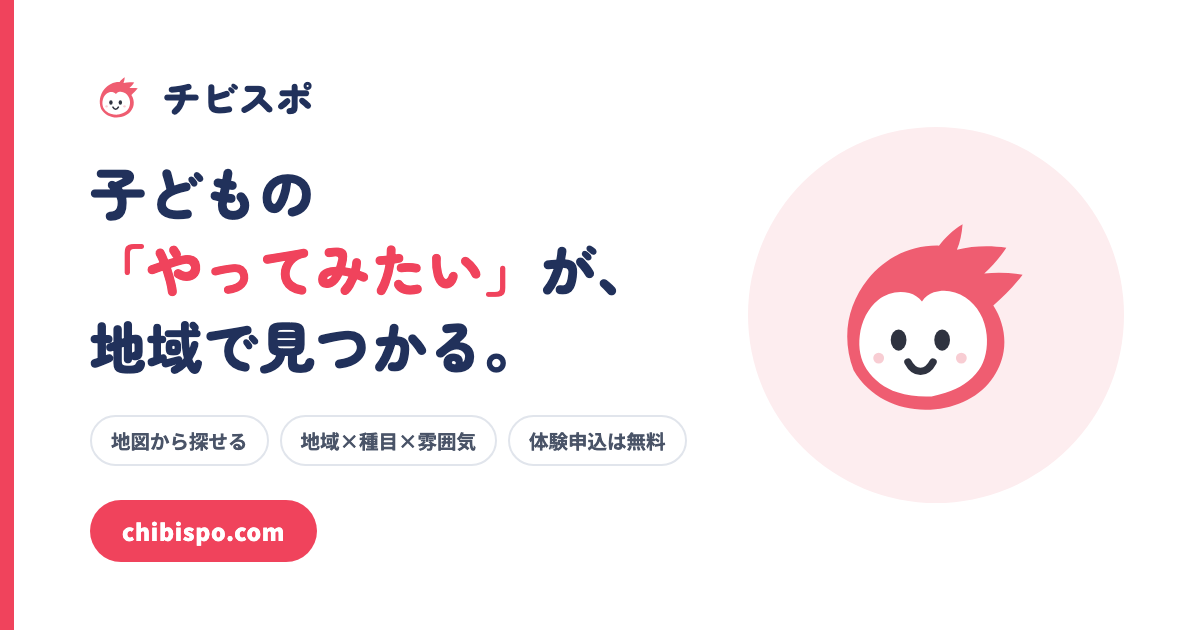
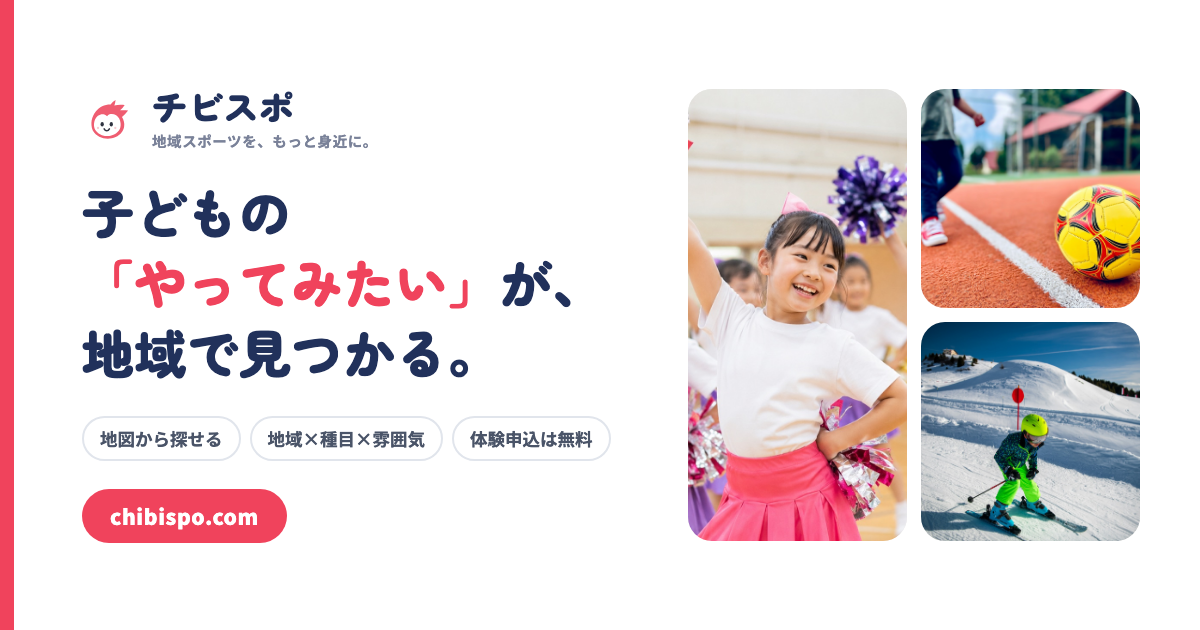
OGP画像に運動している子どもの写真を入れる
マスコットとコピーだけでは「スポーツ」が伝わらなかった。
サイトのhero等で使っている実写3枚（チア・サッカー・スキー）を
入れて、屋内/ボール/屋外を1枚でカバーする。
ロゴの下に「地域スポーツを、もっと身近に。」を添える。
既に公開した v=3 がキャッシュされているので v=4 に上げる。

diff --git a/faq.html b/faq.html
@@ -20,13 +20,13 @@
 <meta property="og:title" content="よくある質問｜チビスポ">
 <meta property="og:description" content="チビスポのよくある質問。保護者の方（検索・体験申込・お気に入り・コメント）、クラブ運営者の方（掲載・料金プラン・写真・解約）向けにまとめています。">
 <meta property="og:url" content="https://chibispo.com/faq.html">
-<meta property="og:image" content="https://chibispo.com/assets/ogp.png?v=3">
+<meta property="og:image" content="https://chibispo.com/assets/ogp.png?v=4">
 <meta property="og:image:width" content="1200">
 <meta property="og:image:height" content="630">
 <meta name="twitter:card" content="summary_large_image">
 <meta name="twitter:title" content="よくある質問｜チビスポ">
 <meta name="twitter:description" content="チビスポのよくある質問。保護者の方（検索・体験申込・お気に入り・コメント）、クラブ運営者の方（掲載・料金プラン・写真・解約）向けにまとめています。">
-<meta name="twitter:image" content="https://chibispo.com/assets/ogp.png?v=3">
+<meta name="twitter:image" content="https://chibispo.com/assets/ogp.png?v=4">
 <link rel="preconnect" href="https://fonts.googleapis.com">
 <link rel="preconnect" href="https://fonts.gstatic.com" crossorigin>
 <link href="https://fonts.googleapis.com/css2?family=Zen+Maru+Gothic:wght@700;900&family=Noto+Sans+JP:wght@400;500;700;800;900&family=Pacifico&display=swap" rel="stylesheet">

diff --git a/index.html b/index.html
@@ -20,13 +20,13 @@
 <meta property="og:title" content="チビスポ｜子どものスポーツ・習い事クラブが見つかるメディア">
 <meta property="og:description" content="地域×種目×雰囲気で、お子さまに合うスポーツ・習い事クラブが見つかる。地図から探せて、体験申込もそのまま。">
 <meta property="og:url" content="https://chibispo.com/">
-<meta property="og:image" content="https://chibispo.com/assets/ogp.png?v=3">
+<meta property="og:image" content="https://chibispo.com/assets/ogp.png?v=4">
 <meta property="og:image:width" content="1200">
 <meta property="og:image:height" content="630">
 <meta name="twitter:card" content="summary_large_image">
 <meta name="twitter:title" content="チビスポ｜子どものスポーツ・習い事クラブが見つかるメディア">
 <meta name="twitter:description" content="地域×種目×雰囲気で、お子さまに合うスポーツ・習い事クラブが見つかる。地図から探せて、体験申込もそのまま。">
-<meta name="twitter:image" content="https://chibispo.com/assets/ogp.png?v=3">
+<meta name="twitter:image" content="https://chibispo.com/assets/ogp.png?v=4">
 <link rel="preconnect" href="https://fonts.googleapis.com">
   <link rel="preconnect" href="https://fonts.gstatic.com" crossorigin="anonymous">
   <link href="https://fonts.googleapis.com/css2?family=Zen+Maru+Gothic:wght@700;900&amp;family=Noto+Sans+JP:wght@400;500;700;900&amp;family=Pacifico&amp;display=swap" rel="stylesheet">

diff --git a/magazine.html b/magazine.html
@@ -20,13 +20,13 @@
 <meta property="og:title" content="お役立ちマガジン｜チビスポ">
 <meta property="og:description" content="子どものスポーツ・習い事選びに役立つ情報を、理学療法士の監修でお届け。年齢別の運動、クラブの選び方、けが予防、声かけのコツなど、研究と現場の両面から解説します。">
 <meta property="og:url" content="https://chibispo.com/magazine.html">
-<meta property="og:image" content="https://chibispo.com/assets/ogp.png?v=3">
+<meta property="og:image" content="https://chibispo.com/assets/ogp.png?v=4">
 <meta property="og:image:width" content="1200">
 <meta property="og:image:height" content="630">
 <meta name="twitter:card" content="summary_large_image">
 <meta name="twitter:title" content="お役立ちマガジン｜チビスポ">
 <meta name="twitter:description" content="子どものスポーツ・習い事選びに役立つ情報を、理学療法士の監修でお届け。年齢別の運動、クラブの選び方、けが予防、声かけのコツなど、研究と現場の両面から解説します。">
-<meta name="twitter:image" content="https://chibispo.com/assets/ogp.png?v=3">
+<meta name="twitter:image" content="https://chibispo.com/assets/ogp.png?v=4">
 <meta property="og:type" content="website">
 <meta property="og:site_name" content="チビスポ">
 <meta property="og:title" content="お役立ちマガジン｜チビスポ">

diff --git a/account-delete.html b/account-delete.html
@@ -19,13 +19,13 @@
 <meta property="og:title" content="アカウント削除の申請｜チビスポ">
 <meta property="og:description" content="チビスポのアカウント削除方法と、削除されるデータについてのご案内です。">
 <meta property="og:url" content="https://chibispo.com/account-delete.html">
-<meta property="og:image" content="https://chibispo.com/assets/ogp.png?v=3">
+<meta property="og:image" content="https://chibispo.com/assets/ogp.png?v=4">
 <meta property="og:image:width" content="1200">
 <meta property="og:image:height" content="630">
 <meta name="twitter:card" content="summary_large_image">
 <meta name="twitter:title" content="アカウント削除の申請｜チビスポ">
 <meta name="twitter:description" content="チビスポのアカウント削除方法と、削除されるデータについてのご案内です。">
-<meta name="twitter:image" content="https://chibispo.com/assets/ogp.png?v=3">
+<meta name="twitter:image" content="https://chibispo.com/assets/ogp.png?v=4">
 <link rel="preconnect" href="https://fonts.googleapis.com">
 <link rel="preconnect" href="https://fonts.gstatic.com" crossorigin>
 <link href="https://fonts.googleapis.com/css2?family=Zen+Maru+Gothic:wght@700;900&family=Noto+Sans+JP:wght@400;500;700;800;900&family=Pacifico&display=swap" rel="stylesheet">

diff --git a/pr-sample-design.html b/pr-sample-design.html
@@ -18,12 +18,12 @@
 <meta property="og:site_name" content="チビスポ">
 <meta property="og:title" content="デザインボックス｜チビスポ 取材記事（サンプル）">
 <meta property="og:url" content="https://chibispo.com/pr-sample-design.html">
-<meta property="og:image" content="https://chibispo.com/assets/ogp.png?v=3">
+<meta property="og:image" content="https://chibispo.com/assets/ogp.png?v=4">
 <meta property="og:image:width" content="1200">
 <meta property="og:image:height" content="630">
 <meta name="twitter:card" content="summary_large_image">
 <meta name="twitter:title" content="デザインボックス｜チビスポ 取材記事（サンプル）">
-<meta name="twitter:image" content="https://chibispo.com/assets/ogp.png?v=3">
+<meta name="twitter:image" content="https://chibispo.com/assets/ogp.png?v=4">
 <link rel="preconnect" href="https://fonts.googleapis.com">
 <link rel="preconnect" href="https://fonts.gstatic.com" crossorigin>
 <link href="https://fonts.googleapis.com/css2?family=Zen+Maru+Gothic:wght@700;900&family=Noto+Sans+JP:wght@400;500;700;800;900&family=Pacifico&display=swap" rel="stylesheet">

diff --git a/pr-sample-sports.html b/pr-sample-sports.html
@@ -18,12 +18,12 @@
 <meta property="og:site_name" content="チビスポ">
 <meta property="og:title" content="ミナトスポーツ｜チビスポ 取材記事（サンプル）">
 <meta property="og:url" content="https://chibispo.com/pr-sample-sports.html">
-<meta property="og:image" content="https://chibispo.com/assets/ogp.png?v=3">
+<meta property="og:image" content="https://chibispo.com/assets/ogp.png?v=4">
 <meta property="og:image:width" content="1200">
 <meta property="og:image:height" content="630">
 <meta name="twitter:card" content="summary_large_image">
 <meta name="twitter:title" content="ミナトスポーツ｜チビスポ 取材記事（サンプル）">
-<meta name="twitter:image" content="https://chibispo.com/assets/ogp.png?v=3">
+<meta name="twitter:image" content="https://chibispo.com/assets/ogp.png?v=4">
 <link rel="preconnect" href="https://fonts.googleapis.com">
 <link rel="preconnect" href="https://fonts.gstatic.com" crossorigin>
 <link href="https://fonts.googleapis.com/css2?family=Zen+Maru+Gothic:wght@700;900&family=Noto+Sans+JP:wght@400;500;700;800;900&family=Pacifico&display=swap" rel="stylesheet">

diff --git a/pr-sample-cafe.html b/pr-sample-cafe.html
@@ -18,12 +18,12 @@
 <meta property="og:site_name" content="チビスポ">
 <meta property="og:title" content="ヘルシーカフェ｜チビスポ 取材記事（サンプル）">
 <meta property="og:url" content="https://chibispo.com/pr-sample-cafe.html">
-<meta property="og:image" content="https://chibispo.com/assets/ogp.png?v=3">
+<meta property="og:image" content="https://chibispo.com/assets/ogp.png?v=4">
 <meta property="og:image:width" content="1200">
 <meta property="og:image:height" content="630">
 <meta name="twitter:card" content="summary_large_image">
 <meta name="twitter:title" content="ヘルシーカフェ｜チビスポ 取材記事（サンプル）">
-<meta name="twitter:image" content="https://chibispo.com/assets/ogp.png?v=3">
+<meta name="twitter:image" content="https://chibispo.com/assets/ogp.png?v=4">
 <link rel="preconnect" href="https://fonts.googleapis.com">
 <link rel="preconnect" href="https://fonts.gstatic.com" crossorigin>
 <link href="https://fonts.googleapis.com/css2?family=Zen+Maru+Gothic:wght@700;900&family=Noto+Sans+JP:wght@400;500;700;800;900&family=Pacifico&display=swap" rel="stylesheet">

diff --git a/pr-sample.html b/pr-sample.html
@@ -18,12 +18,12 @@
 <meta property="og:site_name" content="チビスポ">
 <meta property="og:title" content="さくら整骨院｜チビスポ 取材記事（サンプル）">
 <meta property="og:url" content="https://chibispo.com/pr-sample.html">
-<meta property="og:image" content="https://chibispo.com/assets/ogp.png?v=3">
+<meta property="og:image" content="https://chibispo.com/assets/ogp.png?v=4">
 <meta property="og:image:width" content="1200">
 <meta property="og:image:height" content="630">
 <meta name="twitter:card" content="summary_large_image">
 <meta name="twitter:title" content="さくら整骨院｜チビスポ 取材記事（サンプル）">
-<meta name="twitter:image" content="https://chibispo.com/assets/ogp.png?v=3">
+<meta name="twitter:image" content="https://chibispo.com/assets/ogp.png?v=4">
 <link rel="preconnect" href="https://fonts.googleapis.com">
 <link rel="preconnect" href="https://fonts.gstatic.com" crossorigin>
 <link href="https://fonts.googleapis.com/css2?family=Zen+Maru+Gothic:wght@700;900&family=Noto+Sans+JP:wght@400;500;700;800;900&family=Pacifico&display=swap" rel="stylesheet">

diff --git a/legal.html b/legal.html
@@ -18,12 +18,12 @@
 <meta property="og:site_name" content="チビスポ">
 <meta property="og:title" content="プライバシーポリシー・利用規約｜チビスポ">
 <meta property="og:url" content="https://chibispo.com/legal.html">
-<meta property="og:image" content="https://chibispo.com/assets/ogp.png?v=3">
+<meta property="og:image" content="https://chibispo.com/assets/ogp.png?v=4">
 <meta property="og:image:width" content="1200">
 <meta property="og:image:height" content="630">
 <meta name="twitter:card" content="summary_large_image">
 <meta name="twitter:title" content="プライバシーポリシー・利用規約｜チビスポ">
-<meta name="twitter:image" content="https://chibispo.com/assets/ogp.png?v=3">
+<meta name="twitter:image" content="https://chibispo.com/assets/ogp.png?v=4">
 <link rel="preconnect" href="https://fonts.googleapis.com">
 <link rel="preconnect" href="https://fonts.gstatic.com" crossorigin>
 <link href="https://fonts.googleapis.com/css2?family=Zen+Maru+Gothic:wght@700;900&family=Noto+Sans+JP:wght@400;500;700;800;900&family=Pacifico&display=swap" rel="stylesheet">

diff --git a/category-outdoor.html b/category-outdoor.html
@@ -18,12 +18,12 @@
 <meta property="og:site_name" content="チビスポ">
 <meta property="og:title" content="自然・アウトドアスポーツ｜チビスポ">
 <meta property="og:url" content="https://chibispo.com/category-outdoor.html">
-<meta property="og:image" content="https://chibispo.com/assets/ogp.png?v=3">
+<meta property="og:image" content="https://chibispo.com/assets/ogp.png?v=4">
 <meta property="og:image:width" content="1200">
 <meta property="og:image:height" content="630">
 <meta name="twitter:card" content="summary_large_image">
 <meta name="twitter:title" content="自然・アウトドアスポーツ｜チビスポ">
-<meta name="twitter:image" content="https://chibispo.com/assets/ogp.png?v=3">
+<meta name="twitter:image" content="https://chibispo.com/assets/ogp.png?v=4">
 <link rel="preconnect" href="https://fonts.googleapis.com">
 <link rel="preconnect" href="https://fonts.gstatic.com" crossorigin>
 <link href="https://fonts.googleapis.com/css2?family=Zen+Maru+Gothic:wght@700;900&family=Noto+Sans+JP:wght@400;500;700;800;900&family=Pacifico&display=swap" rel="stylesheet">

diff --git a/team-lp.html b/team-lp.html
@@ -14,12 +14,12 @@
 <meta property="og:site_name" content="チビスポ">
 <meta property="og:title" content="チビスポ | 子どもスポーツ・習い事クラブのための情報掲載プラットフォーム">
 <meta property="og:url" content="https://chibispo.com/team-lp.html">
-<meta property="og:image" content="https://chibispo.com/assets/ogp.png?v=3">
+<meta property="og:image" content="https://chibispo.com/assets/ogp.png?v=4">
 <meta property="og:image:width" content="1200">
 <meta property="og:image:height" content="630">
 <meta name="twitter:card" content="summary_large_image">
 <meta name="twitter:title" content="チビスポ | 子どもスポーツ・習い事クラブのための情報掲載プラットフォーム">
-<meta name="twitter:image" content="https://chibispo.com/assets/ogp.png?v=3">
+<meta name="twitter:image" content="https://chibispo.com/assets/ogp.png?v=4">
 <meta name="viewport" content="width=device-width, initial-scale=1" />
 <link rel="preconnect" href="https://fonts.googleapis.com" />
 <link rel="preconnect" href="https://fonts.gstatic.com" crossorigin />

diff --git a/recruit-pr.html b/recruit-pr.html
@@ -18,12 +18,12 @@
 <meta property="og:site_name" content="チビスポ">
 <meta property="og:title" content="地域企業PR 掲載企業募集｜チビスポ">
 <meta property="og:url" content="https://chibispo.com/recruit-pr.html">
-<meta property="og:image" content="https://chibispo.com/assets/ogp.png?v=3">
+<meta property="og:image" content="https://chibispo.com/assets/ogp.png?v=4">
 <meta property="og:image:width" content="1200">
 <meta property="og:image:height" content="630">
 <meta name="twitter:card" content="summary_large_image">
 <meta name="twitter:title" content="地域企業PR 掲載企業募集｜チビスポ">
-<meta name="twitter:image" content="https://chibispo.com/assets/ogp.png?v=3">
+<meta name="twitter:image" content="https://chibispo.com/assets/ogp.png?v=4">
 <link rel="preconnect" href="https://fonts.googleapis.com">
 <link rel="preconnect" href="https://fonts.gstatic.com" crossorigin>
 <link href="https://fonts.googleapis.com/css2?family=Zen+Maru+Gothic:wght@700;900&family=Noto+Sans+JP:wght@400;500;700;800;900&family=Pacifico&display=swap" rel="stylesheet">
